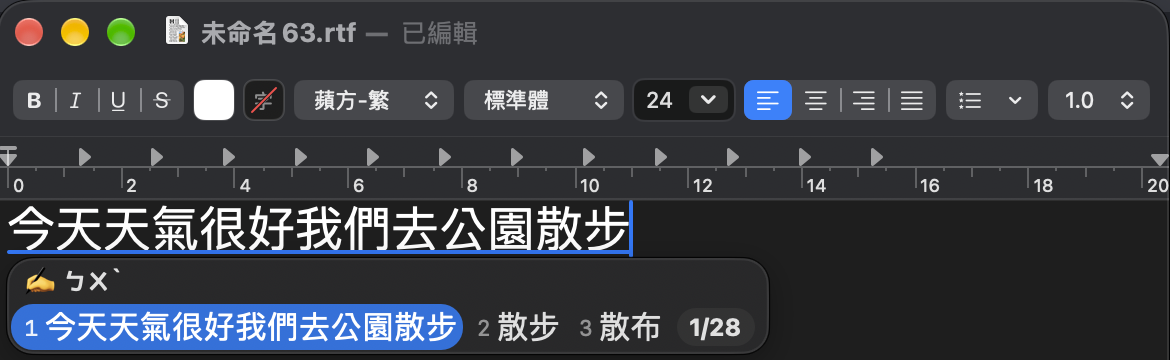
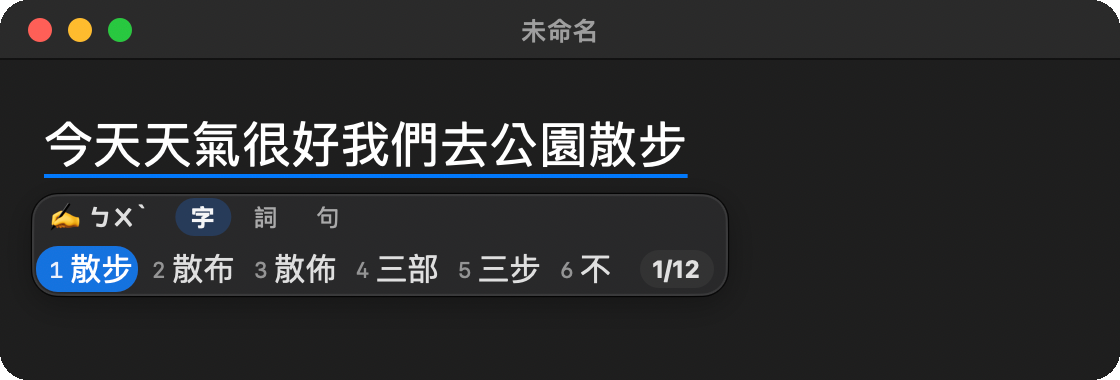
docs: README 圖片與動畫對齊 beta.2（build 19）：重算三支重現示意動畫、候選窗首圖與越用越像你改用新候選窗、新增字詞句分頁動畫

diff --git a/README.md b/README.md
@@ -12,7 +12,10 @@
 <br>
 
 <p align="center">
-  <img src="docs/images/02-candidates-dark.png" width="560" alt="在文字編輯裡連續打完一整句注音，整句一次組好，下方候選窗第一個就是整句">
+  <picture>
+    <source media="(prefers-color-scheme: light)" srcset="docs/images/02-candidates-light.png">
+    <img src="docs/images/02-candidates-dark.png" width="560" alt="在文字編輯裡連續打完一整句注音，整句一次組好；按 ↓ 打開的候選窗分成字、詞、句三頁">
+  </picture>
 </p>
 
 ## 開始使用
@@ -61,7 +64,7 @@
 透過自研語言模型引擎，輸入法會看完整句前後文才決定每一個字。打字途中，前面的字會隨後文進來自動翻對；整句打完，不用一個字一個字選。
 
 <p align="center">
-  <img src="docs/images/demo-sentence.gif" width="480" alt="同一串注音連續打完三句，打字途中前面的字先出現同音錯字，後文進來就自動翻對，整句打完不用選字。「副業兼差收入還不錯」（父→副、富→副、夜→業、間→兼）、「運動完記得拉筋避免抽筋」（金→筋、幣→避）、「加油站集點可以換衛生紙」（家→加、及→集、位→衛）">
+  <img src="docs/images/demo-sentence.gif" width="480" alt="同一串注音連續打完三句，打字途中前面的字先出現同音錯字，後文進來就自動翻對，整句打完不用選字。「副業兼差收入還不錯」（負→副、間→兼）、「運動完記得拉筋避免抽筋」（必→避）、「加油站集點可以換衛生紙」（家→加、及→集、位→衛）">
 </p>
 <p align="center">
   <sub>畫面為重現示意，組字結果由注音台引擎（與 macOS 內建注音）以同一串按鍵實際算出</sub>
@@ -84,6 +87,13 @@
 
 按 ↓ 打開的候選窗分成「字」「詞」「句」三頁：要換一個字、一個詞還是整句，用 Option＋←／→ 切過去挑。打到有對應表情符號的詞，還會多一頁「表情」。
 
+<p align="center">
+  <img src="docs/images/demo-pages-dark.gif" width="480" alt="打完「祝你生日快樂」按 ↓ 打開候選窗，依序用 Option＋→ 切換：字頁、詞頁（生日快樂、快樂）、句頁（祝你生日快樂、祝妳生日快樂等整句），最後是表情頁（🎂 🥳 🎁 🎉 🎈）">
+</p>
+<p align="center">
+  <sub>畫面為重現示意：文字編輯區是示意畫面，候選窗是注音台的實際畫面，內容由注音台引擎以同一串按鍵實際算出</sub>
+</p>
+
 ### 拼錯的注音，看得見
 
 游標下方即時顯示你打的注音。錯在哪，一眼就看到。想改單個注音嗎？Fn＋刪除（fn＋⌫）也可以讓你單改！
@@ -97,7 +107,10 @@
 改選過的字，記憶系統會在下次在同樣的地方自動排前面。記憶只留在你的 Mac，想關、想清，一鍵就好。
 
 <p align="center">
-  <img src="docs/images/demo-learning.gif" width="480" alt="第一次打「看公式」的注音，首選是「看公視」，打開候選窗按 3 選「公式」；第二次同樣的注音，組字區直接就是「看公式」">
+  <img src="docs/images/demo-learning.gif" width="480" alt="第一次打「看公式」的注音，首選是「看公視」，打開候選窗按 2 選「公式」；第二次同樣的注音，組字區直接就是「看公式」">
+</p>
+<p align="center">
+  <sub>畫面為重現示意：文字編輯區是示意畫面，候選窗是注音台的實際畫面，內容由注音台引擎以同一串按鍵實際算出</sub>
 </p>
 
 ### 詞庫，說台灣的話
